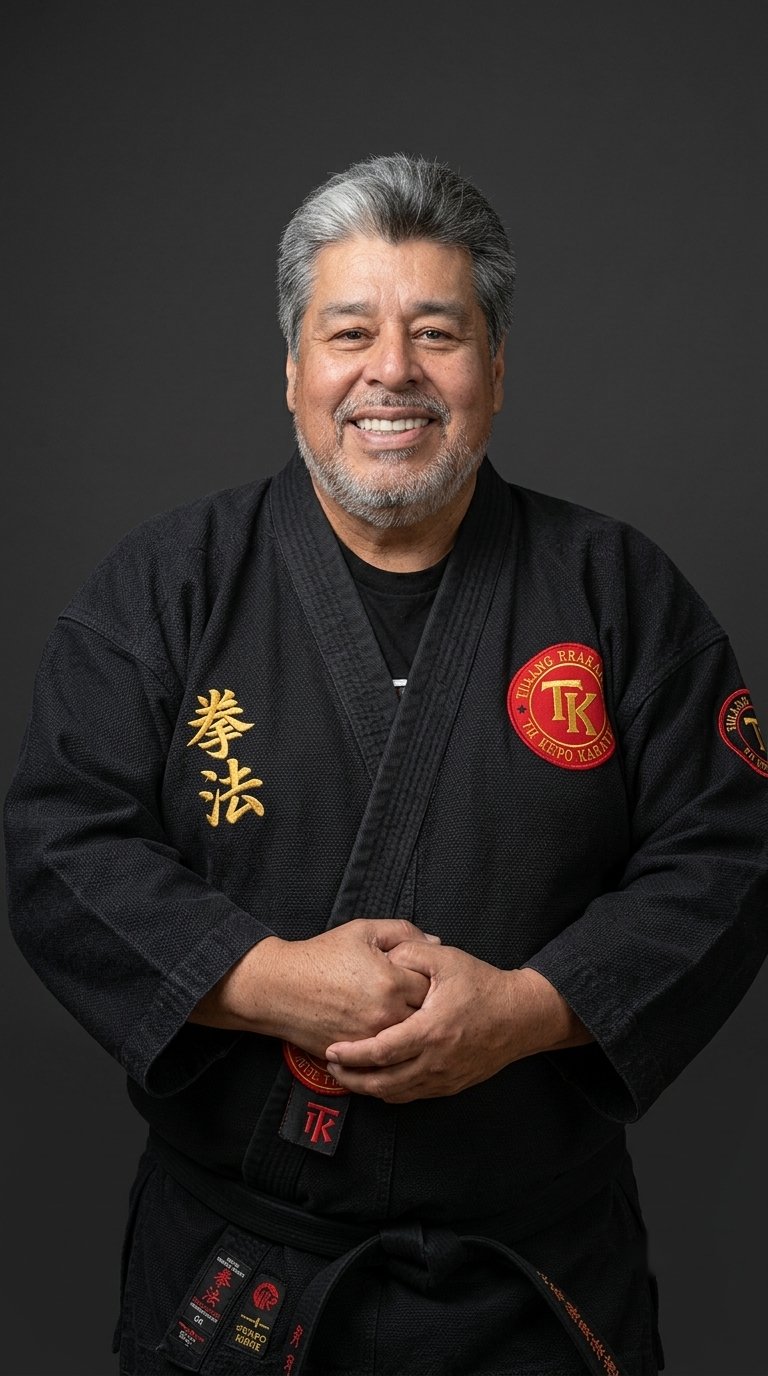
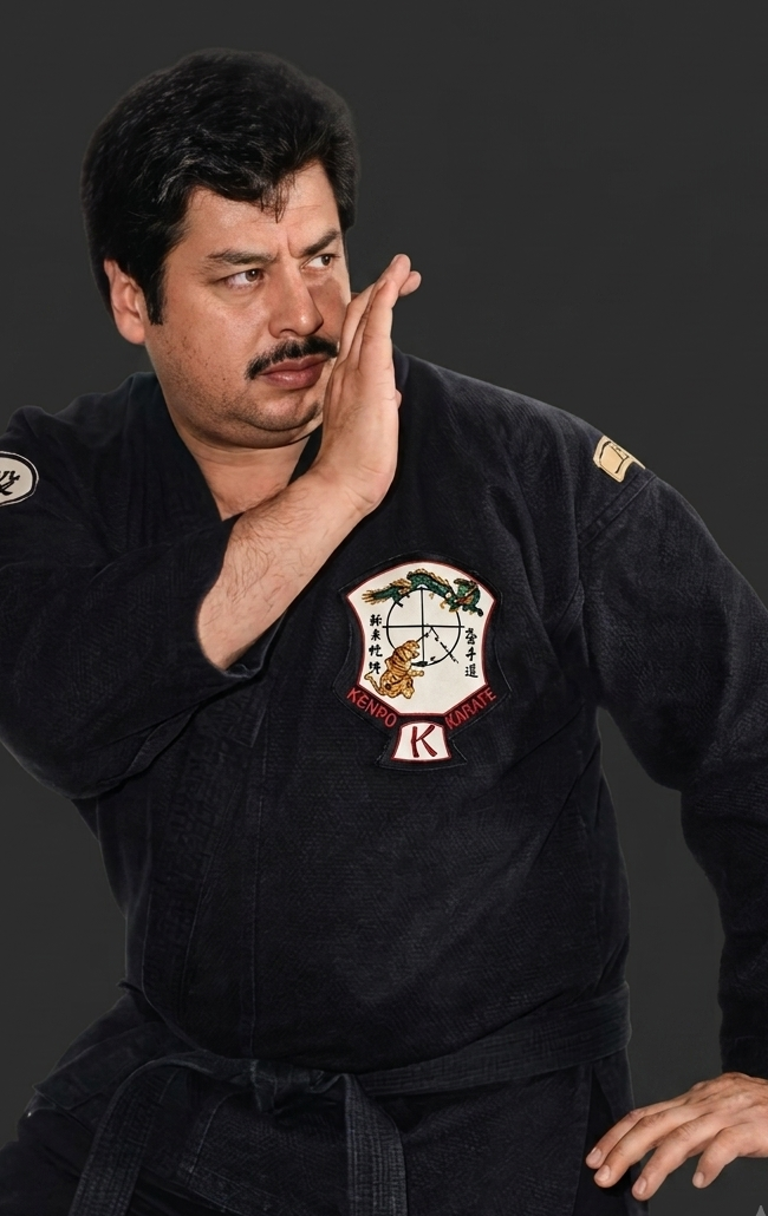
Actualizar fotos y datos de maestros, escuelas sin inscripción y stat de años
- Nueva foto del maestro Roberto Vidal (escuelas municipales e instructor)
- Nueva foto de Arturo Petit sin watermark, encuadre igual al resto de maestros
- Excluir Taller Maipú y Gimnasio Alemán del botón Inscribirme y del formulario
- Agregar (Q.E.P.D) a Petit, Trejo y Ed Parker; actualizar grado de Sean Kelley
- Actualizar stat "Años de Tradición" de 40+ a 50+

diff --git a/index.html b/index.html
@@ -3713,7 +3713,7 @@ footer {
       <span class="stat-label">Grado Black Belt</span>
     </div>
     <div class="stat-item reveal reveal-delay-1">
-      <span class="stat-num" data-count-to="40" data-count-suffix="+">0+</span>
+      <span class="stat-num" data-count-to="50" data-count-suffix="+">0+</span>
       <span class="stat-label">Años de Tradición</span>
     </div>
     <div class="stat-item reveal reveal-delay-2">
@@ -3888,7 +3888,7 @@ footer {
         </div>
         <div class="maestro-info">
           <div class="maestro-name">Ed Parker</div>
-          <div class="maestro-grade">Founder of American Kenpo Karate</div>
+          <div class="maestro-grade">Founder of American Kenpo Karate (Q.E.P.D)</div>
         </div>
       </div>
       <div class="maestro-card reveal reveal-delay-1" onclick="openMaestroBio('pick')">
@@ -3914,7 +3914,7 @@ footer {
         </div>
         <div class="maestro-info">
           <div class="maestro-name">Arturo Petit</div>
-          <div class="maestro-grade">8th Degree Black Belt · Fundador del Kenpo en Chile</div>
+          <div class="maestro-grade">8th Degree Black Belt · Fundador del Kenpo en Chile (Q.E.P.D)</div>
         </div>
       </div>
       <div class="maestro-card reveal reveal-delay-3" onclick="openMaestroBio('schulte')">
@@ -3940,7 +3940,7 @@ footer {
         </div>
         <div class="maestro-info">
           <div class="maestro-name">Sean P. Kelley</div>
-          <div class="maestro-grade">9th Degree Black Belt · Master of the Arts</div>
+          <div class="maestro-grade">10th Degree Black Belt · Grandmaster</div>
         </div>
       </div>
       <div class="maestro-card reveal reveal-delay-1" onclick="openMaestroBio('vidal')">
@@ -3966,7 +3966,7 @@ footer {
         </div>
         <div class="maestro-info">
           <div class="maestro-name">Frank Trejo</div>
-          <div class="maestro-grade">10th Degree Black Belt · Grandmaster</div>
+          <div class="maestro-grade">10th Degree Black Belt · Grandmaster (Q.E.P.D)</div>
         </div>
       </div>
       <div class="maestro-card reveal reveal-delay-3" onclick="openMaestroBio('wallace')">
@@ -4988,7 +4988,7 @@ document.getElementById('lightbox').addEventListener('click', function(e) {
 // reemplazan el contenido por la biografía del maestro citado.
 const MAESTROS_BIO = [
   {
-    id: 'parker', nombre: 'Ed Parker', grado: 'Founder of American Kenpo Karate',
+    id: 'parker', nombre: 'Ed Parker', grado: 'Founder of American Kenpo Karate (Q.E.P.D)',
     patrones: [/Edmund Kealoha Parker/g, /(?:Ed\.?|ED) Parker(?!\s*Jr)/g, /Mr\.? Parker/g],
     portada: 'img/maestros/bio/parker/portada.jpg',
     portadaPos: 'center top',
@@ -5046,13 +5046,13 @@ const MAESTROS_BIO = [
       <p>El Sr. Pick vive actualmente en las montañas de Colorado con su esposa e hijos, disfrutando de un exitoso negocio de herrería. Como miembro activo de su templo, continúa su estudio del judaísmo místico y la Torá. Amante del aire libre, le gusta la caza, la pesca con mosca y acampar. De todos sus intereses, pasiones y actividades, el más grande es su familia.</p>`
   },
   {
-    id: 'kelley', nombre: 'Sean P. Kelley', grado: '9th Degree Black Belt · Master of the Arts',
+    id: 'kelley', nombre: 'Sean P. Kelley', grado: '10th Degree Black Belt · Grandmaster',
     patrones: [/Sean (?:P\.? )?Kelle?y/g],
     portada: 'img/maestros/bio/kelley/portada.jpg',
     portadaPos: 'center 30%',
     galeria: ['img/maestros/bio/kelley/124276999_10218239700881062_3744374255201326031_n.jpg'],
     bio: `
-      <p>Sean P. Kelley, quien es 9th Degree Black Belt (Master of the Arts) en karate americano de Ed Parker Kenpo, es el instructor jefe y propietario del centro Kelley Karate, Inc. (ahora Sean Kelley's VIP Training Systems), ubicado en West Palm Beach, Florida, y es presidente de la federación Chinese Karate Federation (CKF).</p>
+      <p>Sean P. Kelley, quien es 10th Degree Black Belt (Grandmaster) en karate americano de Ed Parker Kenpo, es el instructor jefe y propietario del centro Kelley Karate, Inc. (ahora Sean Kelley's VIP Training Systems), ubicado en West Palm Beach, Florida, y es presidente de la federación Chinese Karate Federation (CKF).</p>
       <p>Sean Kelley es un instructor internacional: ha enseñado en los Estados Unidos, Canadá, América del Sur (Chile) y a través del Reino Unido e Irlanda.</p>
       <p>Desde su creación en 1985, el Kelley Karate Center ha proporcionado calidad en la instrucción de artes marciales para niños y adultos. Además, Sean Kelley y su equipo han demostrado ser una fuerza importante en la comunidad educativa a través de numerosos programas en el ámbito local para preescolares, escuelas primarias, colegios y centros de recreación. El objetivo de los programas de Sean Kelley es fomentar la confianza en sí mismo, fomentar la autodisciplina, apaciguar la violencia y aumentar la seguridad personal.</p>
       <p>Además de sus clases regulares y los estudiantes privados, el Sr. Kelley ha enseñado a través de los Estados Unidos, el Reino Unido y Chile. En 2007, el Sr. Kelley apareció en la revista española «El Budoka» junto al maestro Roberto Vidal.</p>
@@ -5142,7 +5142,7 @@ const MAESTROS_BIO = [
       <p><button type="button" class="blog-link" onclick="closeMaestroModal(); openBlogModal('superfoot-system')">Conocer el Superfoot System →</button></p>`
   },
   {
-    id: 'petit', nombre: 'Arturo Petit', grado: '8th Degree Black Belt · Fundador del Kenpo en Chile',
+    id: 'petit', nombre: 'Arturo Petit', grado: '8th Degree Black Belt · Fundador del Kenpo en Chile (Q.E.P.D)',
     patrones: [/(?:Sensei |Maestro |maestro )?Arturo Petit/g, /(?:Sensei|Maestro|maestro) Petit/g],
     portada: 'img/maestros/bio/petit/portada.jpg',
     galeria: ['01-400x516.jpeg','02-400x516.jpeg','03-400x516.jpeg','04-400x516.jpeg','WhatsApp-Image-2020-08-17-at-16.36.10-400x516.jpeg','05-400x516.jpeg','06-400x516.jpeg','07-400x516.jpeg','WhatsApp-Image-2022-08-23-at-8.36.00-AM.jpeg','08-400x516.jpg','09-400x516.jpg','10-400x516.jpg','11.jpg','12-400x516.jpeg','13-400x516.jpeg','14-400x516.jpeg','15-400x516.jpeg','16-400x516.jpeg','17-400x516.jpg','18-400x516.jpg','19-400x516.jpg','20.jpg','21-400x516.jpg','22-400x516.jpeg','23-400x516.jpeg','24-400x516.jpg','25-400x516.jpg','26-400x516.jpg','27-400x516.jpg','28-400x516.jpg','29-400x516.jpeg','30-400x516.jpeg','31-400x516.jpeg','32-400x516.jpeg','33.jpeg','34-400x516.jpeg','35-400x516.jpeg','36-400x516.jpeg','37-400x516.jpeg','38-400x516.jpeg','39-400x516.jpeg','40-400x516.jpeg','41.jpeg','42-400x516.jpeg','43.jpeg','44-400x516.jpeg','45.jpeg','46-400x516.jpeg','47-400x516.jpeg','48-400x516.jpeg','49-400x516.jpeg','50-400x516.jpeg','51-400x516.jpeg','52-400x516.jpeg','53-400x516.jpeg','54.jpeg','55-400x516.jpeg','56-400x516.jpeg','57-400x516.jpeg','58-400x516.jpeg','59-400x516.jpeg','60-400x516.jpeg','61-400x516.jpeg','62.jpeg','63-400x516.jpeg','64-400x516.jpeg','65.jpeg','66.jpeg','67-400x516.jpeg','68-400x516.jpeg','69-400x516.jpeg','70-400x516.jpeg','71.jpeg','72-400x516.jpeg','73-400x516.jpeg','74.jpeg','75-400x516.jpeg','WhatsApp-Image-2020-08-23-at-14.13.06-400x516.jpeg','76-400x516.jpeg','77-400x516.jpeg','78-400x516.jpeg','WhatsApp-Image-2020-08-26-at-20.54.46-400x516.jpeg','WhatsApp-Image-2020-08-26-at-20.55.57-400x516.jpeg','79-400x516.jpeg','80.jpeg','81.jpeg','82.jpeg','WhatsApp-Image-2020-08-26-at-20.30.04-400x516.jpeg','83-400x516.jpeg','WhatsApp-Image-2020-08-17-at-18.01.12.jpeg','05.png','06.png','02.png','03.png','07.png','01.png'].map(f => 'img/maestros/bio/petit/' + f),
@@ -5239,7 +5239,7 @@ const MAESTROS_BIO = [
       <blockquote>«El Karate es práctica, sin práctica no hay Karate.»</blockquote>`
   },
   {
-    id: 'trejo', nombre: 'Frank Trejo', grado: '10th Degree Black Belt · Grandmaster',
+    id: 'trejo', nombre: 'Frank Trejo', grado: '10th Degree Black Belt · Grandmaster (Q.E.P.D)',
     patrones: [/Frank Trejo/g, /maestro Trejo/g],
     portada: 'img/maestros/bio/trejo/portada.jpg',
     galeria: [
@@ -6843,6 +6843,7 @@ const ESCUELAS = [
     // Las 2 imágenes de cabecera de la página van primero; el artículo no tiene galería.
     galeria: ['img/escuelas/lorca/header-1.jpg', 'img/escuelas/lorca/header-2.jpg'] },
   { id: 'taller-maipu', corto: 'Taller Maipú', nombre: 'Taller de Kenpo Karate del departamento de deportes de la Ilustre Municipalidad de Maipú', director: 'Roberto Vidal C.', region: 'Región Metropolitana', comuna: ESCUELA_COMUNA_MUNICIPAL, lugar: 'Maipú · Depto. de Deportes', insignia: 'maipu_2021.png',
+    sinInscripcion: true,
     direcciones: [
       { label: 'Jardín Infantil Bernardo O\'Higgins, Fundación Integra, Vicente Reyes 889, Maipú', query: 'Vicente Reyes 889, Maipú, Chile' },
       { label: 'Comité de Seguridad Los Diamantes, Villa Los Héroes, Maipú', query: 'Comité de Seguridad Los Diamantes, Villa Los Héroes, Maipú, Chile' },
@@ -6860,7 +6861,7 @@ const ESCUELAS = [
       web: 'https://liceotecnologico.cl/',
       instagram: 'https://www.instagram.com/ltbek',
     } },
-  { id: 'gym-aleman', corto: 'Gimnasio Alemán', nombre: 'Gimnasio Alemán', director: 'Roberto Vidal C.', region: 'Región Metropolitana', comuna: ESCUELA_COMUNA_MUNICIPAL, lugar: 'Región Metropolitana', insignia: 'Gym-Aleman.webp' },
+  { id: 'gym-aleman', corto: 'Gimnasio Alemán', nombre: 'Gimnasio Alemán', director: 'Roberto Vidal C.', region: 'Región Metropolitana', comuna: ESCUELA_COMUNA_MUNICIPAL, lugar: 'Región Metropolitana', insignia: 'Gym-Aleman.webp', sinInscripcion: true },
   { id: 'duoc', corto: 'DuocUC', nombre: 'DuocUC', director: 'Roberto Vidal C.', region: 'Región Metropolitana', comuna: ESCUELA_COMUNA_MUNICIPAL, lugar: 'Sedes Alameda, Maipú y Plaza Oeste', ubicacion: 'Sedes Alameda, Maipú y Plaza Oeste', insignia: 'Insignia-Duoc-v2-1.webp',
     sinInscripcion: true,
     direcciones: [